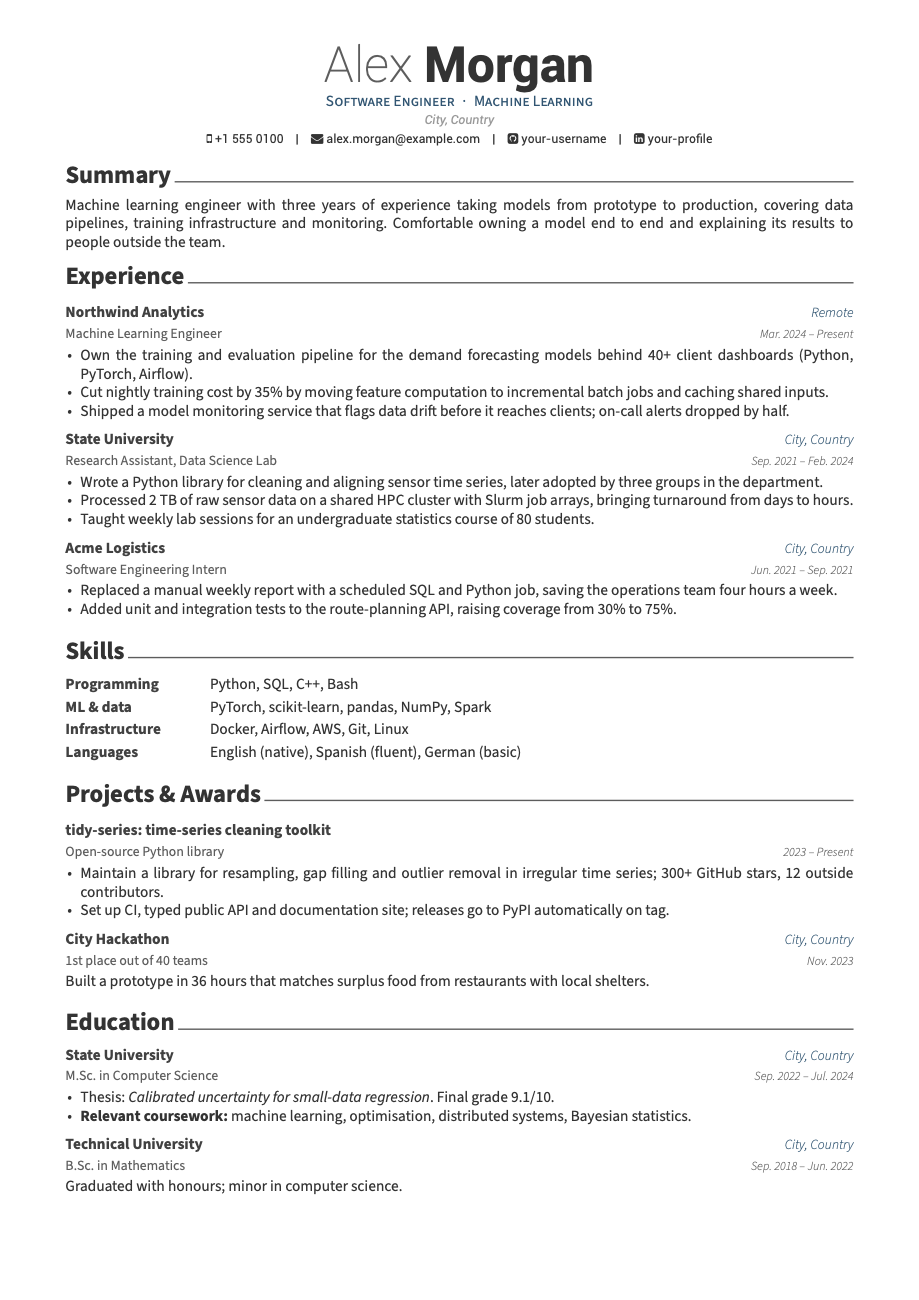
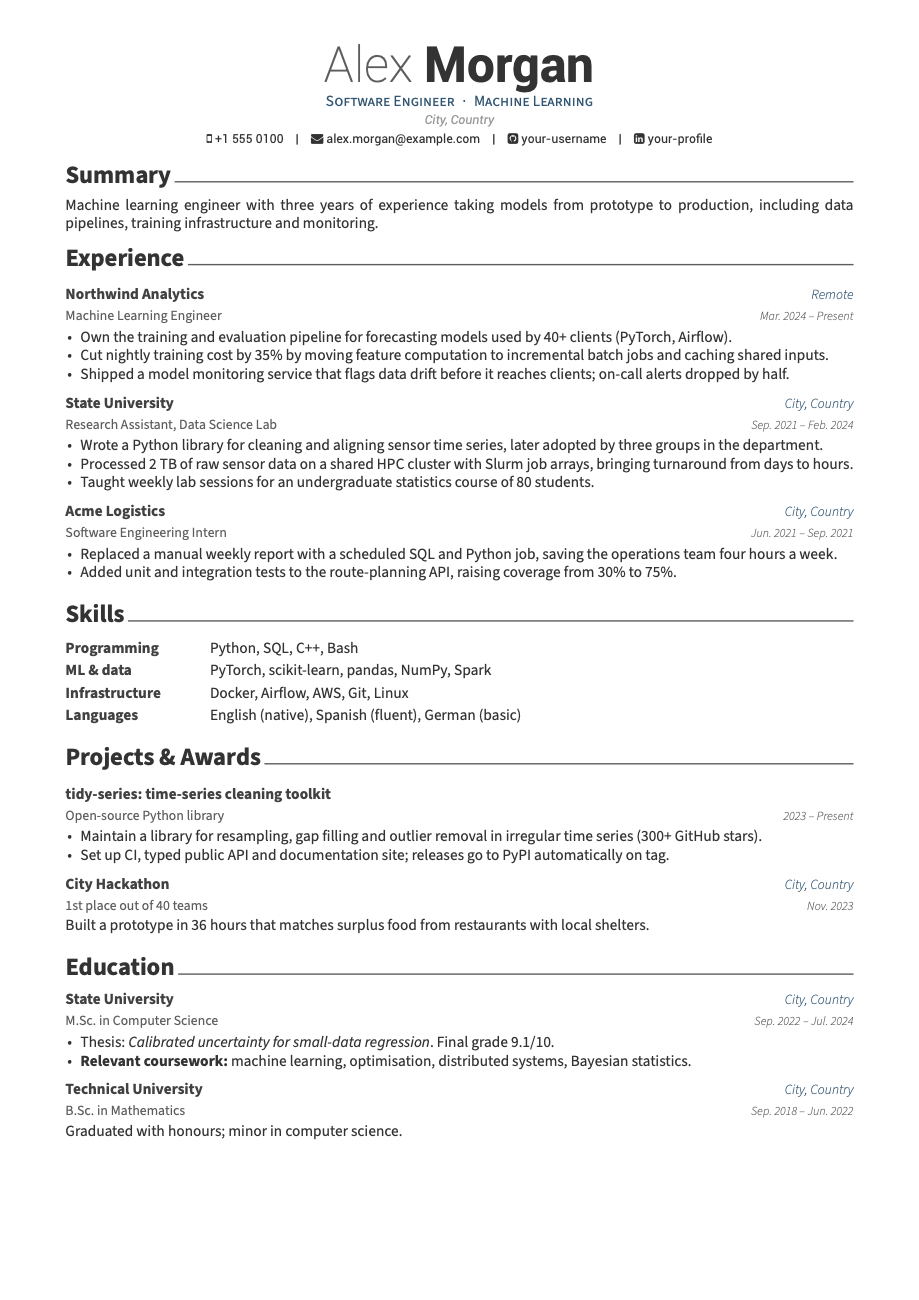
Build on current TeX Live in CI and leave room on the sample page
Ubuntu's packaged TeX Live 2023 laid the industry sample out on two pages,
while TeX Live 2026 fits it on one. Build in the texlive/texlive image so
the released PDFs match a current local install, upload the PDFs even when
the page check fails, and shorten a few sample lines for spare room.

Changed region(s): [[0.0609, 0.1538, 0.9445, 0.9231]]

diff --git a/content/experience/northwind.tex b/content/experience/northwind.tex
@@ -5,9 +5,8 @@
   {Mar. 2024 -- Present}                      % dates
   {
     \begin{cvitems}
-      \item {Own the training and evaluation pipeline for the demand
-      forecasting models behind 40+ client dashboards (Python, PyTorch,
-      Airflow).}
+      \item {Own the training and evaluation pipeline for forecasting models
+      used by 40+ clients (PyTorch, Airflow).}
       \onlyin{industry}{
       \item {Cut nightly training cost by 35\% by moving feature
       computation to incremental batch jobs and caching shared inputs.}

diff --git a/content/projects/open-source.tex b/content/projects/open-source.tex
@@ -6,8 +6,7 @@
   {
     \begin{cvitems}
       \item {Maintain a library for resampling, gap filling and outlier
-      removal in irregular time series; 300+ GitHub stars, 12 outside
-      contributors.}
+      removal in irregular time series (300+ GitHub stars).}
       \onlyin{industry}{
       \item {Set up CI, typed public API and documentation site; releases
       go to PyPI automatically on tag.}

diff --git a/content/summary.tex b/content/summary.tex
@@ -1,4 +1,3 @@
 Machine learning engineer with three years of experience taking models from
-prototype to production, covering data pipelines, training infrastructure and
-monitoring. Comfortable owning a model end to end and explaining its results
-to people outside the team.
+prototype to production, including data pipelines, training infrastructure
+and monitoring.
